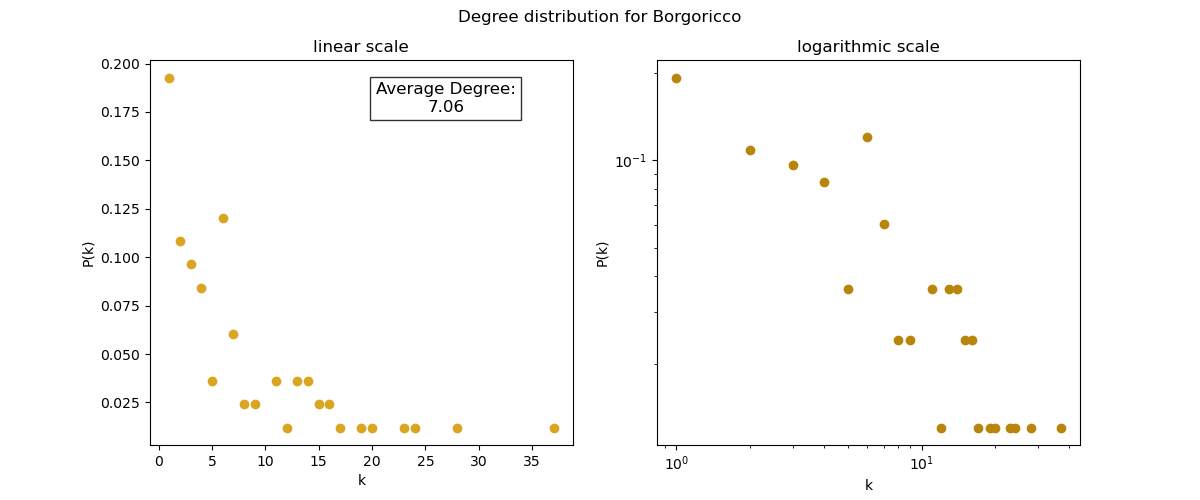
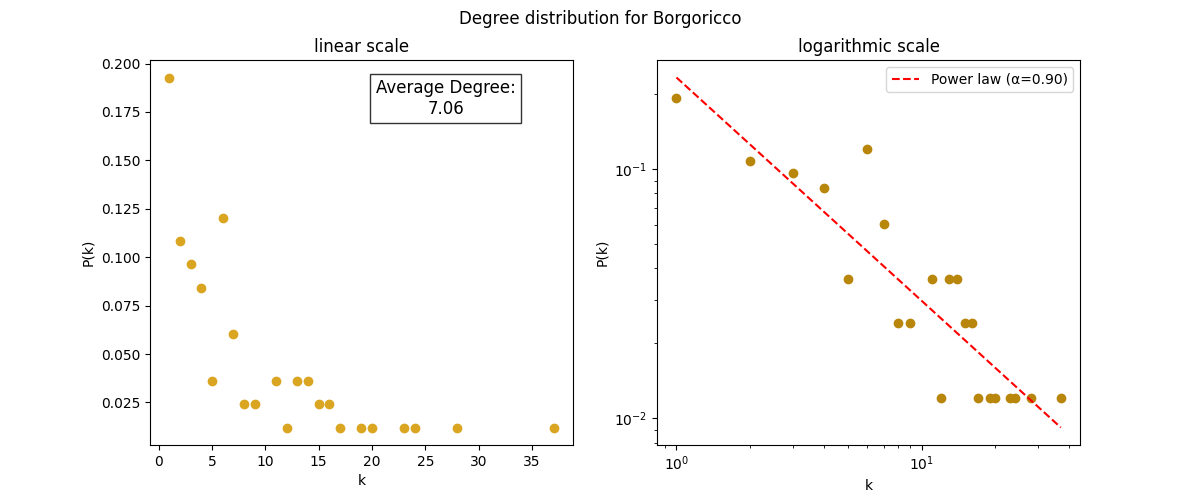
Added powerlaw to the graphs

diff --git a/CSV Data Files/generate_graphs.py b/CSV Data Files/generate_graphs.py
@@ -1,5 +1,7 @@
 import matplotlib.pyplot as plt
 import pandas as pd
+import numpy as np
+from scipy.stats import linregress
 from os import listdir
 
 metrics_folder = "metrics"
@@ -138,10 +140,27 @@ def generate_degree_distribution_graphs(df, locality):
     deg_counts = list(degree_distribution.values())
     deg_counts = [x/n_nodes for x in deg_counts]
 
+    degrees = np.array(degrees)
+    deg_counts = np.array(deg_counts)
+
+    mask = (degrees > 0) & (deg_counts > 0)
+    log_k = np.log(degrees[mask])
+    log_pk = np.log(deg_counts[mask])
+
+    slope, intercept, r_value, p_value, std_err = linregress(log_k, log_pk)
+    alpha = -slope
+
+    x_fit = np.linspace(min(degrees[mask]), max(degrees[mask]), 100)
+    y_fit = np.exp(intercept) * x_fit**slope
+
+
     fig,axes = plt.subplots(1,2,figsize=(12,5))
     axes[0].plot(degrees, deg_counts, marker="o", linestyle="", color="goldenrod")
     axes[1].plot(degrees, deg_counts, marker="o", linestyle="", color="darkgoldenrod")
-    
+    axes[1].plot(x_fit, y_fit, color="red", linestyle="--", label=f"Power law (α={alpha:.2f})")
+    axes[1].legend()
+
+
     # Add labels and title
     axes[0].set_xlabel(f'k')
     axes[0].set_ylabel('P(k)')
@@ -173,9 +192,24 @@ def generate_degree_distribution_graphs(df, locality):
     interaction_counts = list(weighted_degree_distribution.values())
     interaction_counts = [x/n_nodes for x in interaction_counts]
 
+    interactions = np.array(interactions)
+    interaction_counts = np.array(interaction_counts)
+
+    mask = (interactions > 0) & (interaction_counts > 0)
+    log_k = np.log(interactions[mask])
+    log_pk = np.log(interaction_counts[mask])
+
+    slope, intercept, r_value, p_value, std_err = linregress(log_k, log_pk)
+    alpha = -slope
+
+    x_fit = np.linspace(min(interactions[mask]), max(interactions[mask]), 100)
+    y_fit = np.exp(intercept) * x_fit**slope
+
     fig,axes = plt.subplots(1,2,figsize=(12,5))
     axes[0].plot(interactions, interaction_counts, marker="o", linestyle="", color="olive")
     axes[1].plot(interactions, interaction_counts, marker="o", linestyle="", color="olivedrab")
+    axes[1].plot(x_fit, y_fit, color="red", linestyle="--", label=f"Power law (α={alpha:.2f})")
+    axes[1].legend()
     
     # Add labels and title
     axes[0].set_xlabel(f'k')
